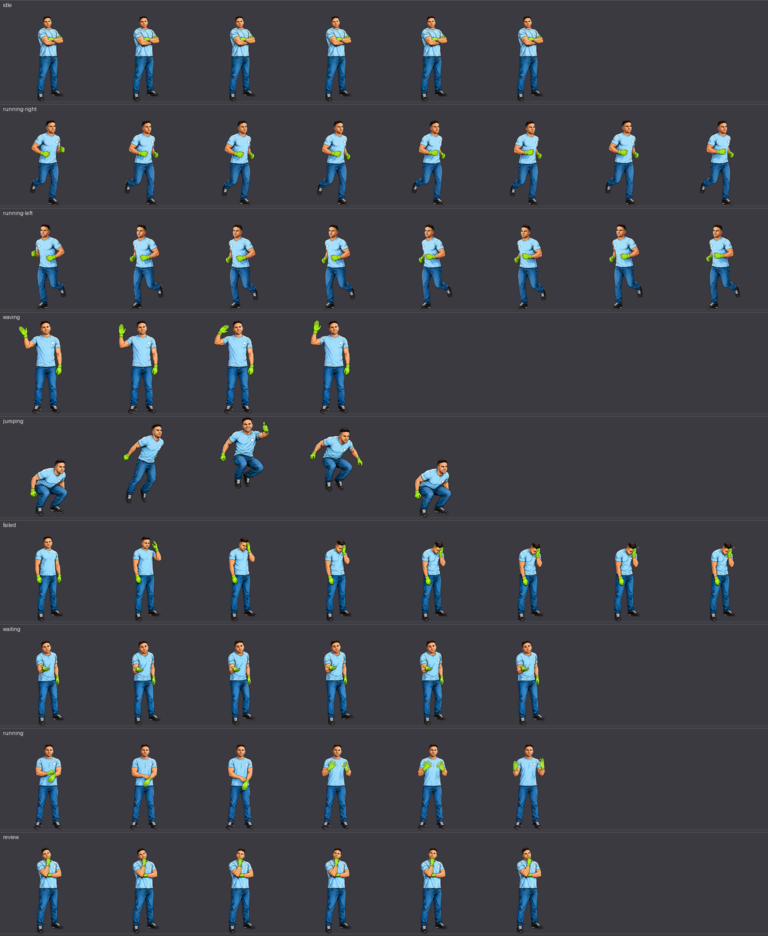
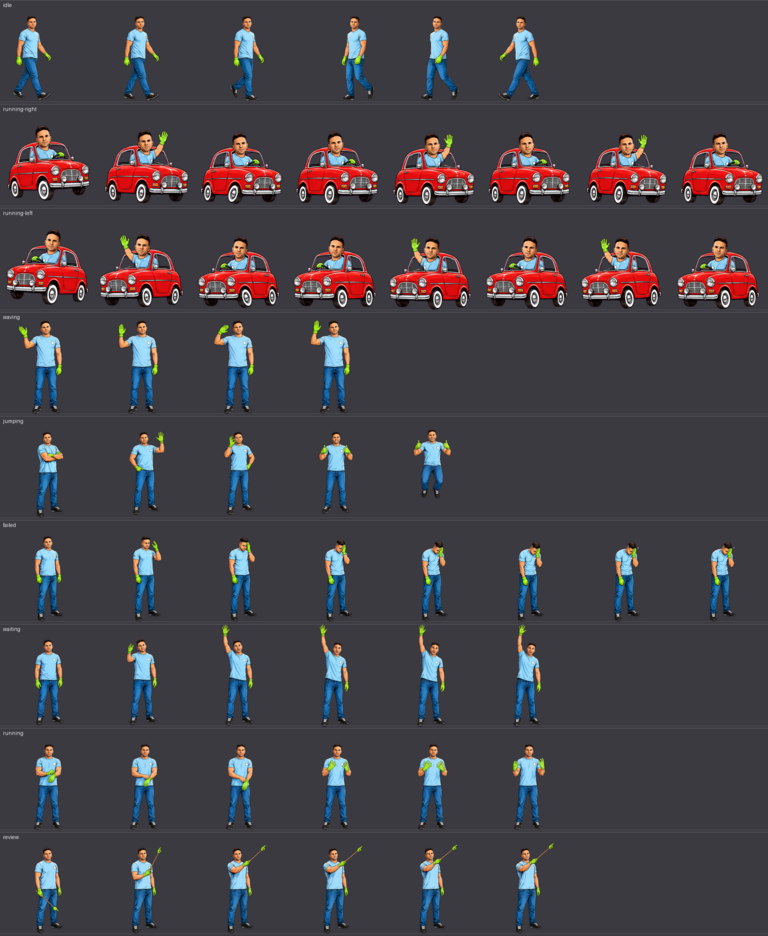
feat: más animaciones para Ángel y el guante
Ángel: pasea en reposo, conduce su coche rojo al arrastrarlo, seña de
«todo OK» al terminar bien, levanta la mano al esperar permiso y señala
con un puntero con guante verde al revisar. El guante pasea a saltitos
en reposo. procesar_tiras.py admite paseo con giro, tiras por fila y
escala por ancho para el coche.

diff --git a/tools/procesar_tiras.py b/tools/procesar_tiras.py
@@ -45,9 +45,30 @@ ROW_SPECS: tuple[tuple[str, int, int, str], ...] = (
 # Cómo estimar la altura "de pie" de cada fila: (frame de referencia o None=máximo, factor).
 # En el salto ningún frame está de pie: se usa el frame 1 (impulso) corregido.
 ROW_REF: dict[str, tuple[int | None, float]] = {
-    "jumping": (1, 0.93),   # el impulso mide ~93 % del alto de pie
+    "jumping": (0, 1.0),     # frame 0 de pie; luego gestos de OK y saltito
     "waving": (None, 1.09),  # la mano levantada sobresale ~9 % por encima de la cabeza
+    "waiting": (0, 1.0),     # frame 0 de pie; luego levanta el brazo por encima de la cabeza
+    "review": (0, 1.0),      # frame 0 de pie; luego alza el puntero
 }
+
+# Tira de origen de cada fila (sin extensión). Por defecto "tira-<estado>".
+ROW_SOURCE: dict[str, str] = {
+    "idle": "tira-pasear",           # paseo de ida y vuelta (ver WALK_PATH)
+    "running-right": "tira-coche",   # va en su coche rojo
+    "jumping": "tira-ok",            # «todo OK»: seña de OK, pulgares arriba y saltito
+    "waiting": "tira-levantar-mano",
+    "review": "tira-puntero",        # señala con el puntero del guante verde
+}
+
+# Filas que no son una persona de pie (el coche): se escalan para caber en la celda.
+ROW_FIT: dict[str, tuple[int, int]] = {"running-right": (CELL_W - 8, 150)}
+
+# Paseo en reposo: (pose de la tira, desplazamiento x en px, mirando a la izquierda).
+# Va a la derecha en 3 pasos, se gira y vuelve en 2; el bucle cierra en el frame 0.
+WALK_PATH: tuple[tuple[int, int, bool], ...] = (
+    (0, -36, False), (1, -12, False), (2, 12, False),
+    (3, 36, True), (4, 12, True), (5, -12, True),
+)
 
 
 @dataclass(frozen=True)
@@ -152,14 +173,18 @@ def extract_poses(path: Path, n: int) -> list[Pose]:
 
 def tira_path(tiras: Path, state: str) -> Path | None:
     """Ruta de la tira de un estado, en .png o .webp; None si no existe."""
+    stem = ROW_SOURCE.get(state, f"tira-{state}")
     for ext in (".png", ".webp"):
-        path = tiras / f"tira-{state}{ext}"
+        path = tiras / f"{stem}{ext}"
         if path.is_file():
             return path
     return None
 
 
 def row_scale(state: str, poses: list[Pose]) -> float:
+    if state in ROW_FIT:
+        max_w, max_h = ROW_FIT[state]
+        return min(max_w / max(p.rgba.width for p in poses), max_h / max(p.height for p in poses))
     idx, factor = ROW_REF.get(state, (None, 1.0))
     ref = poses[idx].height if idx is not None else max(p.height for p in poses)
     return TARGET_H / (ref / factor)
@@ -184,13 +209,17 @@ def clear_hidden_rgb(img: Image.Image) -> Image.Image:
     return out
 
 
-def place(pose: Pose, scale: float, ground: int) -> tuple[Image.Image, list[int], bool]:
+def place(
+    pose: Pose, scale: float, ground: int, dx: int = 0, flip: bool = False
+) -> tuple[Image.Image, list[int], bool]:
     w, h = max(1, round(pose.rgba.width * scale)), max(1, round(pose.rgba.height * scale))
     art = pose.rgba.convert("RGBa").resize((w, h), Image.Resampling.LANCZOS).convert("RGBA")
+    if flip:
+        art = art.transpose(Image.Transpose.FLIP_LEFT_RIGHT)
     lift = round((ground - pose.bottom) * scale)
     y = BASELINE - lift - h
     y = max(MARGIN, y)
-    x = round(CELL_W / 2 - torso_anchor_x(art))
+    x = round(CELL_W / 2 + dx - torso_anchor_x(art))
     x = min(max(x, MARGIN), CELL_W - MARGIN - w) if w <= CELL_W - 2 * MARGIN else x
     cell = Image.new("RGBA", (CELL_W, CELL_H), (0, 0, 0, 0))
     cell.paste(art, (x, y), art)
@@ -219,8 +248,9 @@ def build(tiras: Path, out: Path, measure: bool) -> dict:
                 print(state, "escala=%.4f" % scale, "alturas=", [p.height for p in poses],
                       "anchos=", [p.rgba.width for p in poses])
             row_cells, report[state] = [], []
-            for i, pose in enumerate(poses):
-                cell, bbox, clipped = place(pose, scale, ground)
+            plan = WALK_PATH if state == "idle" else tuple((i, 0, False) for i in range(frames))
+            for i, (src, dx, flip) in enumerate(plan):
+                cell, bbox, clipped = place(poses[src], scale, ground, dx, flip)
                 row_cells.append(cell)
                 report[state].append({"frame": i, "bbox": bbox, "recortado": clipped})
         cells[state] = row_cells

diff --git a/tools/generar_atlas.py b/tools/generar_atlas.py
@@ -54,15 +54,26 @@ class Pose:
     bright: float = 1.0      # brillo (1 = original)
 
 
+IDLE_PATH: tuple[tuple[int, int], ...] = (
+    (-36, 1), (-12, 1), (12, 1), (36, -1), (12, -1), (-12, -1),
+)  # (desplazamiento x, dirección): va a la derecha, se gira y vuelve
+
+
 def poses_idle(n: int) -> list[Pose]:
-    return [
-        Pose(
-            sx=1 - 0.015 * math.sin(2 * math.pi * i / n),
-            sy=1 + 0.03 * math.sin(2 * math.pi * i / n),
-            angle=1.5 * math.cos(2 * math.pi * i / n),
+    """Paseo de ida y vuelta a saltitos, inclinado hacia donde va."""
+    poses = []
+    for i, (dx, direction) in enumerate(IDLE_PATH[:n]):
+        landing = i in (0, 3)  # apoya en los extremos antes de seguir o girarse
+        poses.append(
+            Pose(
+                sx=1.05 if landing else 0.98,
+                sy=0.94 if landing else 1.03,
+                angle=-7 * direction,
+                dx=dx,
+                dy=0 if landing else -10,
+            )
         )
-        for i in range(n)
-    ]
+    return poses
 
 
 def poses_run(n: int, direction: int) -> list[Pose]:

diff --git a/README.md b/README.md
@@ -22,12 +22,14 @@
 
 | | **Ángel Gaitán** | **Guante Verde** |
 | --- | :---: | :---: |
-| Reposo | ![Ángel en reposo](preview/angel-gaitan/idle.gif) | ![Guante en reposo](preview/guante-verde/idle.gif) |
-| Tarea bien hecha | ![Ángel salta con el pulgar arriba](preview/angel-gaitan/jumping.gif) | ![El guante salta](preview/guante-verde/jumping.gif) |
+| Reposo: pasea | ![Ángel pasea de un lado a otro](preview/angel-gaitan/idle.gif) | ![El guante pasea a saltitos](preview/guante-verde/idle.gif) |
+| La arrastras | ![Ángel conduce su coche rojo](preview/angel-gaitan/running-right.gif) | ![El guante da saltitos](preview/guante-verde/running-right.gif) |
+| Todo OK | ![Ángel hace la seña de OK y levanta los pulgares](preview/angel-gaitan/jumping.gif) | ![El guante salta](preview/guante-verde/jumping.gif) |
+| Revisando | ![Ángel señala con su puntero de guante verde](preview/angel-gaitan/review.gif) | ![El guante se inclina](preview/guante-verde/review.gif) |
 | Algo falló | ![Ángel se lleva la mano a la cara](preview/angel-gaitan/failed.gif) | ![El guante gira a pulgar abajo](preview/guante-verde/failed.gif) |
-| Trabajando | ![Ángel se ajusta los guantes](preview/angel-gaitan/running.gif) | ![El guante vibra](preview/guante-verde/running.gif) |
 
-- **Ángel Gaitán:** el mecánico de TikTok en versión ilustrada, con sus inseparables guantes verdes.
+- **Ángel Gaitán:** el mecánico de TikTok en versión ilustrada, con sus inseparables guantes verdes,
+  su coche rojo clásico y un puntero con un guante en la punta.
 - **Guante Verde:** el logo del guante, convertido en pegatina viva.
 
 ## Instalar
@@ -73,14 +75,14 @@ foreach ($dest in "$env:USERPROFILE\.petdex\pets", "$env:USERPROFILE\.codex\pets
 
 | Estado | Cuándo sale | Ángel Gaitán | Guante Verde |
 | --- | --- | --- | --- |
-| `idle` | Sin actividad | Brazos cruzados, respira y parpadea | Respira y se balancea |
-| `running-right` / `running-left` | La arrastras | Trota hacia ese lado | Da saltitos inclinado |
+| `idle` | Sin actividad | Pasea de un lado a otro y se da la vuelta | Pasea a saltitos de lado a lado |
+| `running-right` / `running-left` | La arrastras | Conduce su coche rojo clásico y saluda por la ventanilla | Da saltitos inclinado |
 | `waving` | Saludo o aviso | Saluda con el guante | Se mece |
-| `jumping` | Tarea terminada bien | Salta con el pulgar arriba | Salta |
+| `jumping` | Tarea terminada bien | «Todo OK»: seña de OK con guiño, doble pulgar arriba y saltito | Salta |
 | `failed` | Algo falló | Se lleva la mano a la cara | Gira a pulgar abajo y pierde color |
-| `waiting` | El agente espera tu permiso | Mano abierta: «¿te toca?» | Da toquecitos hacia delante |
-| `running` | El agente ejecuta o edita | Se ajusta los guantes | Vibra con energía |
-| `review` | El agente piensa o revisa | Mano en la barbilla | Se inclina despacio |
+| `waiting` | El agente espera tu permiso | Levanta la mano bien alta: «¡aquí!» | Da toquecitos hacia delante |
+| `running` | El agente ejecuta o edita | Se ajusta los guantes y flexiona los dedos | Vibra con energía |
+| `review` | El agente piensa o revisa | Señala con un puntero con un guante verde en la punta | Se inclina despacio |
 
 Hojas completas: [Ángel](preview/angel-gaitan/contact-sheet.png) · [Guante](preview/guante-verde/contact-sheet.png).
 
